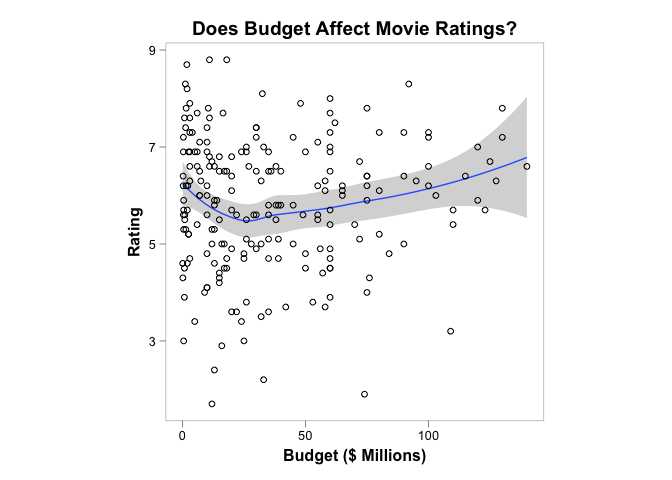
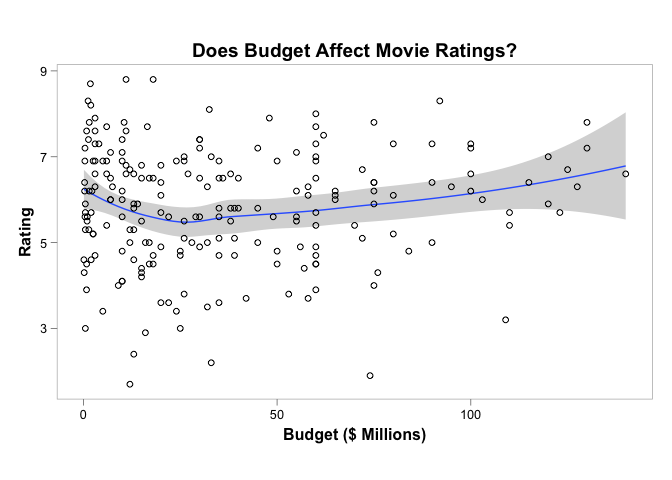
Figure update

diff --git a/README.md b/README.md
@@ -221,7 +221,7 @@ was displayed is used.
 
 ![](figure/rescale_plot-1.png)
 
-    rescale_plot(ratio=1)
+    rescale_plot(ratio=16/9)
 
 ![](figure/rescale_plot-2.png)
 
